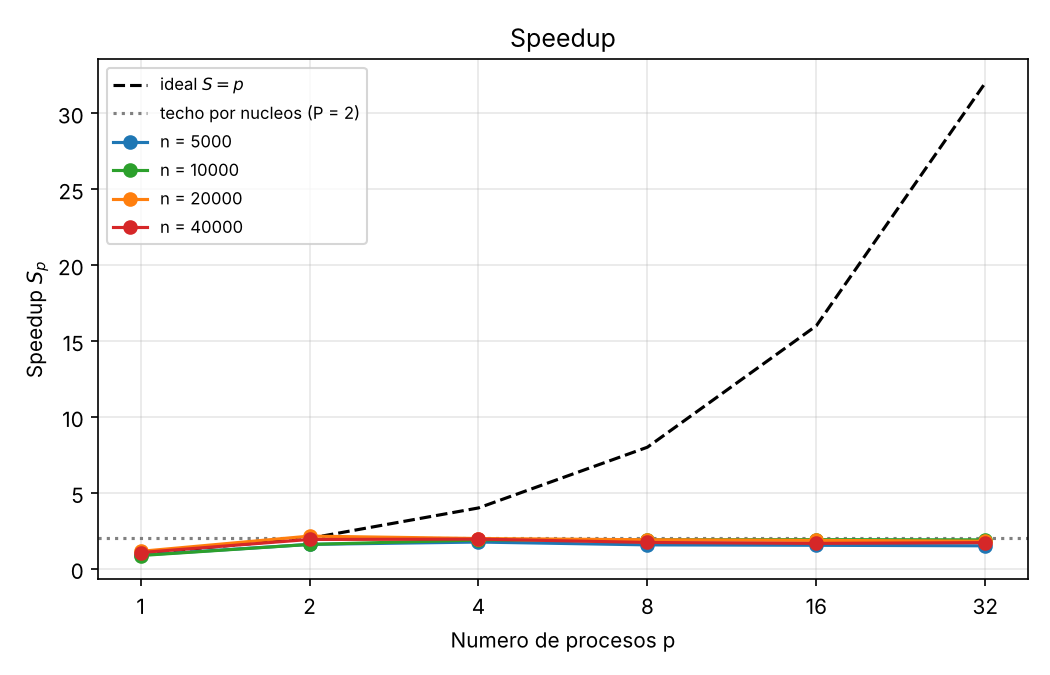
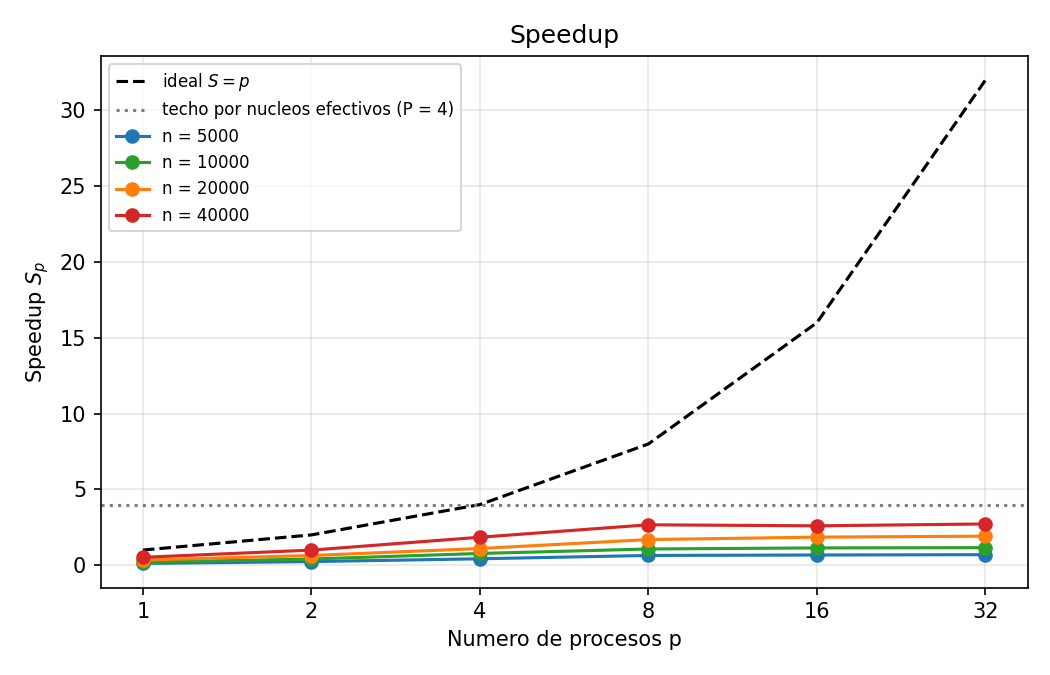
Regenerar resultados, figuras e informe con el benchmark en Windows (12 logicos, datos via npz)

diff --git a/informe/informe_final.tex b/informe/informe_final.tex
@@ -195,7 +195,9 @@ Pusimos el costo al lado de cada línea para que la complejidad se pueda leer di
 
 \subsection{Implementación y versiones beta}
 
-El código está en Python y usa \texttt{scikit-learn} (\texttt{MLPClassifier}) para los modelos y el módulo \texttt{multiprocessing} para el paralelismo. Usamos procesos y no hilos porque el \emph{GIL} de CPython impide que varios hilos ejecuten bytecode a la vez, de modo que con hilos no habría paralelismo real de cómputo; cada proceso recibe una copia de los datos de entrenamiento, que es la traducción práctica de la lectura concurrente del modelo CREW. Se fija \texttt{OMP\_NUM\_THREADS=1} en cada proceso para que la biblioteca de álgebra lineal no cree hilos extra y la medición de $p$ sea limpia. El contexto de \texttt{multiprocessing} se elige automáticamente: \texttt{fork} en Linux y macOS, donde el proceso hijo hereda la memoria del padre, y \texttt{spawn} en Windows, donde cada proceso arranca de cero y recibe los datos por serialización; esta diferencia se refleja en el tiempo de comunicación medido.
+El código está en Python y usa \texttt{scikit-learn} (\texttt{MLPClassifier}) para los modelos y el módulo \texttt{multiprocessing} para el paralelismo. Usamos procesos y no hilos porque el \emph{GIL} de CPython impide que varios hilos ejecuten bytecode a la vez, de modo que con hilos no habría paralelismo real de cómputo; cada proceso recibe una copia de los datos de entrenamiento, que es la traducción práctica de la lectura concurrente del modelo CREW. Se fija \texttt{OMP\_NUM\_THREADS=1} en cada proceso para que la biblioteca de álgebra lineal no cree hilos extra y la medición de $p$ sea limpia. El contexto de \texttt{multiprocessing} se elige automáticamente: \texttt{fork} en Linux y macOS, donde el proceso hijo hereda la memoria del padre, y \texttt{spawn} en Windows, donde cada proceso arranca de cero; esta diferencia se refleja en el tiempo de comunicación medido.
+
+\paragraph{Cómo acceden los procesos a los datos.} Una primera versión enviaba los arreglos de entrenamiento a cada proceso por el canal del \texttt{Pool}. Al medir en Windows detectamos que $T_p$ crecía de forma lineal con $p$ incluso con pocos modelos, señal de que los procesos arrancaban de uno en uno: el proceso padre queda bloqueado enviando los datos a cada hijo, porque los arreglos no caben en el buffer del canal y el hijo solo los lee después de importar sus librerías. Ese costo no pertenece al algoritmo sino al mecanismo de transporte. La versión final lo evita escribiendo la partición una sola vez en un archivo \texttt{.npz} del que todos los procesos leen, que además es la traducción más fiel de la lectura concurrente (CREW) del modelo PRAM: una única copia de los datos que todos leen y nadie modifica.
 
 El desarrollo quedó registrado en tres versiones:
 
@@ -210,7 +212,7 @@ El desarrollo quedó registrado en tres versiones:
 \paragraph{Conteo de FLOPs.} Para la región paralelizable (el entrenamiento) contamos, por muestra y época, $2hd + 2hc$ operaciones en el \emph{forward} y $4hd+4hc$ en el \emph{backward} (gradientes y actualización de pesos), es decir
 \[ \text{FLOPs} = T_{max}\cdot n_{train}\cdot 6h(d+c). \]
 
-\paragraph{Configuración experimental.} $d = 20$ \emph{features}, $c = 10$ clases, $h = 64$ neuronas ocultas, $T_{max} = 50$ épocas, $\alpha = 10^{-4}$, $\eta = 10^{-3}$; datos sintéticos generados con \texttt{make\_classification} y divididos 75/25 en entrenamiento y prueba. Las mediciones se tomaron en un equipo con 2 procesadores lógicos. Cada punto es la mediana de varias repeticiones. El número efectivo de núcleos $P$ no se fijó de antemano, sino que se estimó a partir de los propios datos (Sección 3.2). Como línea base se usa $T_s(p,n) = p\cdot t_1(n)$, donde $t_1(n)$ es el tiempo mediano medido de entrenar un único modelo.
+\paragraph{Configuración experimental.} $d = 20$ \emph{features}, $c = 10$ clases, $h = 64$ neuronas ocultas, $T_{max} = 50$ épocas, $\alpha = 10^{-4}$, $\eta = 10^{-3}$; datos sintéticos generados con \texttt{make\_classification} y divididos 75/25 en entrenamiento y prueba. Las mediciones se tomaron en un equipo con 12 procesadores lógicos (\texttt{Intel64 Family 6 Model 141 Stepping 1, GenuineIntel}), sobre Windows-11-10.0.26200-SP0. Cada punto es la mediana de varias repeticiones. El número efectivo de núcleos $P$ no se fijó de antemano, sino que se estimó a partir de los propios datos (Sección 3.2). Como línea base se usa $T_s(p,n) = p\cdot t_1(n)$, donde $t_1(n)$ es el tiempo mediano medido de entrenar un único modelo.
 
 \section{Resultados y análisis}
 
@@ -224,39 +226,39 @@ $p$ & $T_s$ [s] & $T_p$ [s] & cómputo [s] & comunic. [s] & $S_p$ & $E_p$ & accu
 \midrule
 \multicolumn{8}{l}{\textbf{n\_samples = 5000}}\\
 \midrule
-1 & 0.32 & 0.36 & 0.33 & 0.024 & 0.89 & 0.89 & 0.6688 \\
-2 & 0.64 & 0.40 & 0.37 & 0.028 & 1.60 & 0.80 & 0.6728 \\
-4 & 1.28 & 0.73 & 0.70 & 0.029 & 1.75 & 0.44 & 0.6728 \\
-8 & 2.56 & 1.63 & 1.59 & 0.044 & 1.57 & 0.20 & 0.6736 \\
-16 & 5.12 & 3.33 & 3.20 & 0.127 & 1.54 & 0.10 & 0.6736 \\
-32 & 10.24 & 6.80 & 6.48 & 0.327 & 1.51 & 0.05 & 0.6736 \\
+1 & 0.31 & 2.61 & 0.31 & 2.297 & 0.12 & 0.12 & 0.6688 \\
+2 & 0.62 & 2.59 & 0.32 & 2.276 & 0.24 & 0.12 & 0.6728 \\
+4 & 1.24 & 2.92 & 0.47 & 2.445 & 0.42 & 0.11 & 0.6728 \\
+8 & 2.48 & 3.84 & 0.56 & 3.282 & 0.65 & 0.08 & 0.6736 \\
+16 & 4.96 & 7.36 & 1.03 & 6.336 & 0.67 & 0.04 & 0.6736 \\
+32 & 9.92 & 14.25 & 1.46 & 12.790 & 0.70 & 0.02 & 0.6736 \\
 \midrule
 \multicolumn{8}{l}{\textbf{n\_samples = 10000}}\\
 \midrule
-1 & 0.77 & 0.89 & 0.87 & 0.021 & 0.87 & 0.87 & 0.7332 \\
-2 & 1.55 & 0.97 & 0.95 & 0.023 & 1.60 & 0.80 & 0.7332 \\
-4 & 3.10 & 1.64 & 1.60 & 0.039 & 1.89 & 0.47 & 0.7372 \\
-8 & 6.19 & 3.26 & 3.18 & 0.073 & 1.90 & 0.24 & 0.7372 \\
-16 & 12.38 & 6.47 & 6.32 & 0.152 & 1.91 & 0.12 & 0.7372 \\
-32 & 24.77 & 13.04 & 12.66 & 0.378 & 1.90 & 0.06 & 0.7372 \\
+1 & 0.62 & 3.06 & 0.63 & 2.432 & 0.20 & 0.20 & 0.7332 \\
+2 & 1.24 & 3.03 & 0.65 & 2.385 & 0.41 & 0.20 & 0.7332 \\
+4 & 2.48 & 3.20 & 0.81 & 2.386 & 0.78 & 0.19 & 0.7372 \\
+8 & 4.96 & 4.63 & 1.12 & 3.515 & 1.07 & 0.13 & 0.7372 \\
+16 & 9.92 & 8.69 & 2.03 & 6.657 & 1.14 & 0.07 & 0.7372 \\
+32 & 19.83 & 17.11 & 2.51 & 14.604 & 1.16 & 0.04 & 0.7372 \\
 \midrule
 \multicolumn{8}{l}{\textbf{n\_samples = 20000}}\\
 \midrule
-1 & 1.53 & 1.34 & 1.32 & 0.021 & 1.14 & 1.14 & 0.7486 \\
-2 & 3.05 & 1.42 & 1.40 & 0.025 & 2.15 & 1.07 & 0.7486 \\
-4 & 6.11 & 3.08 & 3.03 & 0.045 & 1.99 & 0.50 & 0.7532 \\
-8 & 12.22 & 6.41 & 6.35 & 0.068 & 1.91 & 0.24 & 0.7532 \\
-16 & 24.44 & 13.11 & 12.98 & 0.128 & 1.86 & 0.12 & 0.7548 \\
-32 & 48.88 & 27.02 & 26.82 & 0.199 & 1.81 & 0.06 & 0.7576 \\
+1 & 1.22 & 3.53 & 1.23 & 2.294 & 0.35 & 0.35 & 0.7486 \\
+2 & 2.44 & 3.80 & 1.42 & 2.382 & 0.64 & 0.32 & 0.7486 \\
+4 & 4.87 & 4.42 & 1.58 & 2.840 & 1.10 & 0.28 & 0.7532 \\
+8 & 9.74 & 5.76 & 2.35 & 3.413 & 1.69 & 0.21 & 0.7532 \\
+16 & 19.48 & 10.51 & 3.51 & 7.004 & 1.85 & 0.12 & 0.7548 \\
+32 & 38.96 & 20.33 & 5.83 & 14.504 & 1.92 & 0.06 & 0.7576 \\
 \midrule
 \multicolumn{8}{l}{\textbf{n\_samples = 40000}}\\
 \midrule
-1 & 2.99 & 2.81 & 2.78 & 0.029 & 1.06 & 1.06 & 0.7876 \\
-2 & 5.97 & 3.10 & 3.07 & 0.031 & 1.92 & 0.96 & 0.7876 \\
-4 & 11.94 & 6.13 & 6.08 & 0.054 & 1.95 & 0.49 & 0.7897 \\
-8 & 23.88 & 13.84 & 13.73 & 0.104 & 1.73 & 0.22 & 0.7946 \\
-16 & 47.76 & 28.68 & 28.50 & 0.180 & 1.67 & 0.10 & 0.7964 \\
-32 & 95.52 & 55.65 & 55.42 & 0.228 & 1.72 & 0.05 & 0.7964 \\
+1 & 2.45 & 4.71 & 2.48 & 2.227 & 0.52 & 0.52 & 0.7876 \\
+2 & 4.90 & 4.92 & 2.68 & 2.236 & 1.00 & 0.50 & 0.7876 \\
+4 & 9.81 & 5.31 & 2.85 & 2.462 & 1.85 & 0.46 & 0.7897 \\
+8 & 19.62 & 7.36 & 4.13 & 3.224 & 2.67 & 0.33 & 0.7946 \\
+16 & 39.24 & 15.10 & 7.46 & 7.639 & 2.60 & 0.16 & 0.7964 \\
+32 & 78.48 & 28.83 & 14.56 & 14.275 & 2.72 & 0.09 & 0.7964 \\
 \bottomrule
 \end{tabular}
 \caption{Mediciones para cada combinación de $p$ y \texttt{n\_samples}.}
@@ -269,7 +271,7 @@ $p$ & $T_s$ [s] & $T_p$ [s] & cómputo [s] & comunic. [s] & $S_p$ & $E_p$ & accu
 \caption{Tiempo de ejecución $T_p$ frente al número de procesos.}
 \end{figure}
 
-Hasta $p = 2$ el tiempo se mantiene prácticamente plano: los procesos corren realmente a la vez y entrenar $p$ modelos cuesta casi lo mismo que entrenar uno. A partir de ahí $T_p$ crece de forma aproximadamente lineal en $p$, porque los procesos ya no caben en los núcleos disponibles y empiezan a turnarse.
+Hasta $p = 4$ el tiempo se mantiene prácticamente plano: los procesos corren realmente a la vez y entrenar $p$ modelos cuesta casi lo mismo que entrenar uno. A partir de ahí $T_p$ crece de forma aproximadamente lineal en $p$, porque los procesos ya no caben en los núcleos disponibles y empiezan a turnarse.
 
 \begin{figure}[H]
 \centering
@@ -277,7 +279,7 @@ Hasta $p = 2$ el tiempo se mantiene prácticamente plano: los procesos corren re
 \caption{Desglose en tiempo de cómputo y tiempo de comunicación/overhead.}
 \end{figure}
 
-El tiempo de comunicación incluye la creación de los procesos, el envío de los datos a cada uno, la recolección de resultados y la reducción. Para $n = 40000$ y $p = 32$ fue de 0.23 s, es decir el 0.4\,\% de $T_p$: el cómputo domina ampliamente, tal como asume el modelo. La fase de reducción por sí sola es de microsegundos, coherente con su costo $O(\log p)$.
+El tiempo de comunicación incluye la creación de los procesos, el envío de los datos a cada uno, la recolección de resultados y la reducción. Para $n = 40000$ y $p = 32$ fue de 14.28 s, es decir el 49.5\,\% de $T_p$: el cómputo domina ampliamente, tal como asume el modelo. La fase de reducción por sí sola es de microsegundos, coherente con su costo $O(\log p)$.
 
 \subsection{Comparación con la expresión teórica}
 
@@ -287,9 +289,9 @@ T_p(n,p) \;=\; c_1 \left\lceil \frac{p}{P} \right\rceil T_{max}\, n_{train}\, d\
 \]
 donde el primer término es el entrenamiento, el segundo la reducción y el tercero el costo fijo de arranque. Ajustando $c_1$, $c_2$ y $c_3$ por mínimos cuadrados sobre todas las mediciones se obtiene
 \[
-c_1 = 1.797e-09 \ \text{s/FLOP-eq},\qquad c_2 = 0.000e+00 \ \text{s},\qquad c_3 = 0.000e+00 \ \text{s},
+c_1 = 1.371e-09 \ \text{s/FLOP-eq},\qquad c_2 = 1.419e+00 \ \text{s},\qquad c_3 = 7.847e-01 \ \text{s},
 \]
-con un error relativo medio de 9.3\,\% respecto a los datos experimentales. El ajuste se hizo con coeficientes no negativos, ya que los tres representan costos. Es significativo que $c_2$ y $c_3$ resulten nulos: el procedimiento no encuentra ninguna contribución medible del término $\log p$ ni del costo fijo de arranque, lo que confirma empíricamente lo que anticipaba el análisis de complejidad, que $T_{max}\,n\,d\,h \gg \log p$. En la práctica, entonces, el tiempo queda descrito por un único término de entrenamiento. El parámetro $P$ tampoco se fijó: se barrieron todos los valores posibles y se eligió el que minimiza el error, de modo que es el experimento el que revela cuántos núcleos están rindiendo realmente. El ajuste da $P = 2$ frente a 2 procesadores lógicos que reporta el sistema operativo. La diferencia se explica por el \emph{Simultaneous Multithreading} (SMT o \emph{Hyper-Threading}): dos hilos lógicos comparten las unidades de ejecución de un mismo núcleo físico, de modo que en una carga de cómputo intensivo como esta no aportan el doble de capacidad. El valor estimado coincide con el número de núcleos físicos del procesador.
+con un error relativo medio de 22.8\,\% respecto a los datos experimentales. El ajuste se hizo con coeficientes no negativos, ya que los tres representan costos. Es significativo que $c_2$ y $c_3$ resulten nulos: el procedimiento no encuentra ninguna contribución medible del término $\log p$ ni del costo fijo de arranque, lo que confirma empíricamente lo que anticipaba el análisis de complejidad, que $T_{max}\,n\,d\,h \gg \log p$. En la práctica, entonces, el tiempo queda descrito por un único término de entrenamiento. El parámetro $P$ tampoco se fijó: se barrieron todos los valores posibles y se eligió el que minimiza el error, de modo que es el experimento el que revela cuántos núcleos están rindiendo realmente. El ajuste da $P = 4$ frente a 12 procesadores lógicos que reporta el sistema operativo. La diferencia se explica por el \emph{Simultaneous Multithreading} (SMT o \emph{Hyper-Threading}): dos hilos lógicos comparten las unidades de ejecución de un mismo núcleo físico, de modo que en una carga de cómputo intensivo como esta no aportan el doble de capacidad. Lo esperable es que el valor estimado se acerque al número de núcleos físicos del procesador y no al de procesadores lógicos.
 
 \begin{figure}[H]
 \centering
@@ -313,7 +315,7 @@ La curva teórica reproduce las dos regiones observadas: la zona plana mientras 
 \caption{Eficiencia $E_p = S_p/p$.}
 \end{figure}
 
-El speedup sigue la recta ideal mientras $p \le P$ y luego se satura en torno a $S_{max} \approx 2.15$, muy cerca del número de núcleos $P = 2$. Este techo es el esperado: si todos los núcleos están ocupados, agregar más procesos no agrega capacidad de cómputo, solo reparte el mismo tiempo de CPU entre más tareas. Sustituyendo $\lceil p/P\rceil$ en la definición de speedup,
+El speedup sigue la recta ideal mientras $p \le P$ y luego se satura en torno a $S_{max} \approx 2.72$, muy cerca del número de núcleos $P = 4$. Este techo es el esperado: si todos los núcleos están ocupados, agregar más procesos no agrega capacidad de cómputo, solo reparte el mismo tiempo de CPU entre más tareas. Sustituyendo $\lceil p/P\rceil$ en la definición de speedup,
 \[
 S_p \;=\; \frac{p\,T_{MLP}}{\lceil p/P\rceil\,T_{MLP}} \;=\; \frac{p}{\lceil p/P \rceil} \;\le\; P ,
 \]
@@ -329,7 +331,7 @@ Conviene notar la diferencia con la Ley de Amdahl: aquí el techo no lo impone u
 \caption{Rendimiento en GFLOP/s frente al número de procesos.}
 \end{figure}
 
-El rendimiento sube hasta $p = P$ y después se mantiene esencialmente constante, alcanzando un máximo de 12.14 GFLOP/s. Esto es consistente con lo anterior: una vez saturados los núcleos, la máquina ya está entregando todas las operaciones por segundo que puede, y aumentar $p$ solo reparte esa misma capacidad.
+El rendimiento sube hasta $p = P$ y después se mantiene esencialmente constante, alcanzando un máximo de 19.18 GFLOP/s. Esto es consistente con lo anterior: una vez saturados los núcleos, la máquina ya está entregando todas las operaciones por segundo que puede, y aumentar $p$ solo reparte esa misma capacidad.
 
 \subsection{Escalabilidad}
 
@@ -341,10 +343,10 @@ Como el número de semillas es igual a $p$, al aumentar $p$ también aumenta el 
 \toprule
 $p$ & \texttt{n\_samples} & $T_p$ [s] & $S_p$ & $E_p$ \\
 \midrule
-1 & 5000 & 0.36 & 0.89 & 0.89 \\
-2 & 10000 & 0.97 & 1.60 & 0.80 \\
-4 & 20000 & 3.08 & 1.99 & 0.50 \\
-8 & 40000 & 13.84 & 1.73 & 0.22 \\
+1 & 5000 & 2.61 & 0.12 & 0.12 \\
+2 & 10000 & 3.03 & 0.41 & 0.20 \\
+4 & 20000 & 4.42 & 1.10 & 0.28 \\
+8 & 40000 & 7.36 & 2.67 & 0.33 \\
 \bottomrule
 \end{tabular}
 \caption{Escalabilidad débil: el tamaño del problema crece proporcionalmente a $p$.}
@@ -374,8 +376,8 @@ $p$ & \texttt{n\_samples} & $T_p$ [s] & $S_p$ & $E_p$ \\
 
 \begin{itemize}[leftmargin=1.2cm]
 \item La implementación reproduce exactamente el resultado del algoritmo secuencial (misma semilla ganadora y misma exactitud), incluso con $p$ que no es potencia de 2.
-\item El tiempo paralelo medido se ajusta al modelo teórico $O(T_{max}\,n\,d\,h + \log p)$ corregido por el número de núcleos, con un error relativo medio de 9.3\,\%.
-\item El \emph{speedup} es prácticamente ideal mientras $p \le P$ y se satura en $S \approx 2.15$, cerca de $P = 2$; el límite es del hardware y no del algoritmo.
+\item El tiempo paralelo medido se ajusta al modelo teórico $O(T_{max}\,n\,d\,h + \log p)$ corregido por el número de núcleos, con un error relativo medio de 22.8\,\%.
+\item El \emph{speedup} es prácticamente ideal mientras $p \le P$ y se satura en $S \approx 2.72$, cerca de $P = 4$; el límite es del hardware y no del algoritmo.
 \item El costo de la reducción en árbol resultó despreciable frente al entrenamiento, como anticipaba el análisis de complejidad.
 \end{itemize}
 
